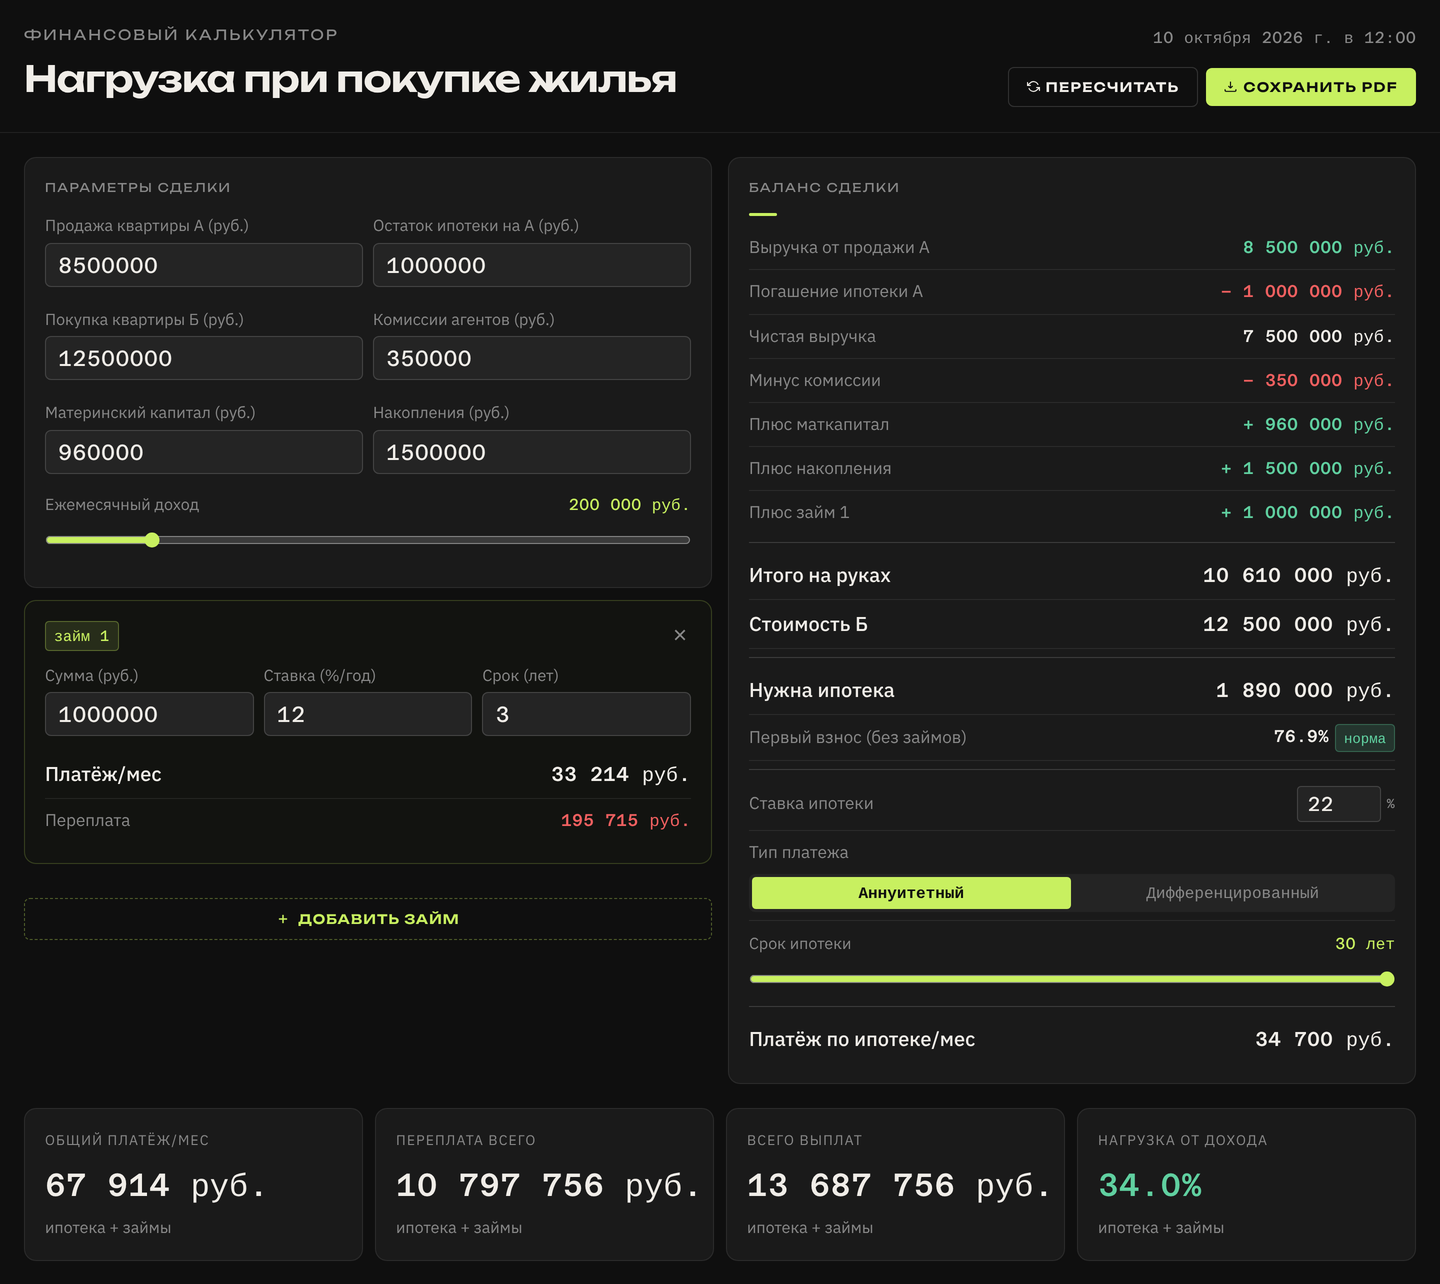
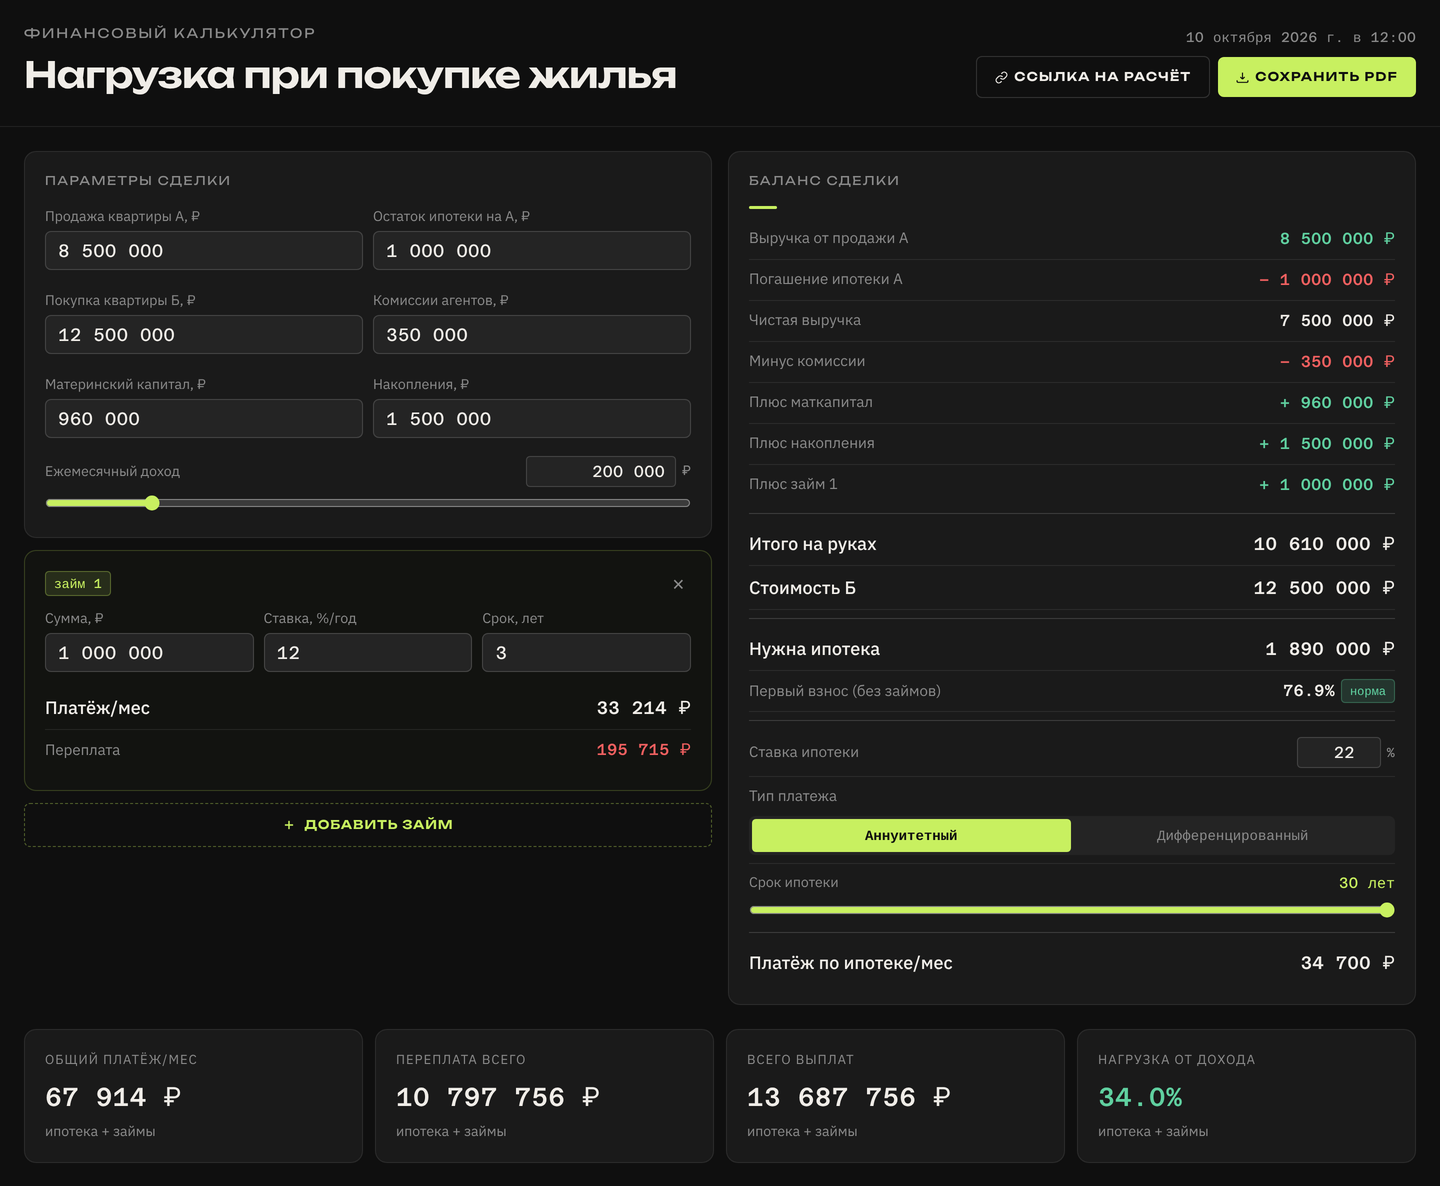
Update README and screenshot for the new version
Claude-Session: https://claude.ai/code/session_01YCgoYJd29CPpN6KyZvRQFE

diff --git a/README.md b/README.md
@@ -18,17 +18,24 @@
 | **Extra loans** | Any number of consumer loans to close the gap, each with its own rate, term, payment and annuity schedule |
 | **Load summary** | Total monthly payment, total overpayment and total paid, plus the payment as a share of income: green up to 35%, amber up to 50%, red above that |
 | **Amortization** | Year-by-year schedule for the mortgage (5 years / 10 years / full term) and for each loan |
-| **PDF export** | Saves the whole calculation as an A4 PDF |
+| **Shareable link** | Every input is stored in the page URL, so one link reopens exactly the same calculation |
+| **PDF export** | Prints to a clean, light A4 layout with selectable text |
 
-Everything recalculates as you type. Amounts are in roubles, and the interface is in Russian.
+Everything recalculates as you type. Large amounts are typed with thousands separators, and income can be entered exactly or set with the slider. The layout works on phones and is keyboard-accessible. Amounts are in roubles, and the interface is in Russian.
 
 ## Run locally
 
-It's a single static file with no build step and no dependencies to install. Just open `index.html` in a browser.
+It's a static page with no build step and no dependencies to install. Just open `index.html` in a browser.
+
+```
+index.html   — markup
+style.css    — styles, including the mobile and print layouts
+calc.js      — calculations, UI and URL state
+```
 
 ## Stack
 
-Vanilla HTML, CSS and JavaScript. [jsPDF](https://github.com/parallax/jsPDF) and [html2canvas](https://github.com/niklasvh/html2canvas) handle the PDF export. Fonts are Unbounded, IBM Plex Sans and Azeret Mono from Google Fonts.
+Vanilla HTML, CSS and JavaScript, with no libraries. PDF export uses the browser's own print dialog. Fonts are Unbounded, IBM Plex Sans and Azeret Mono from Google Fonts.
 
 ## Disclaimer
 
